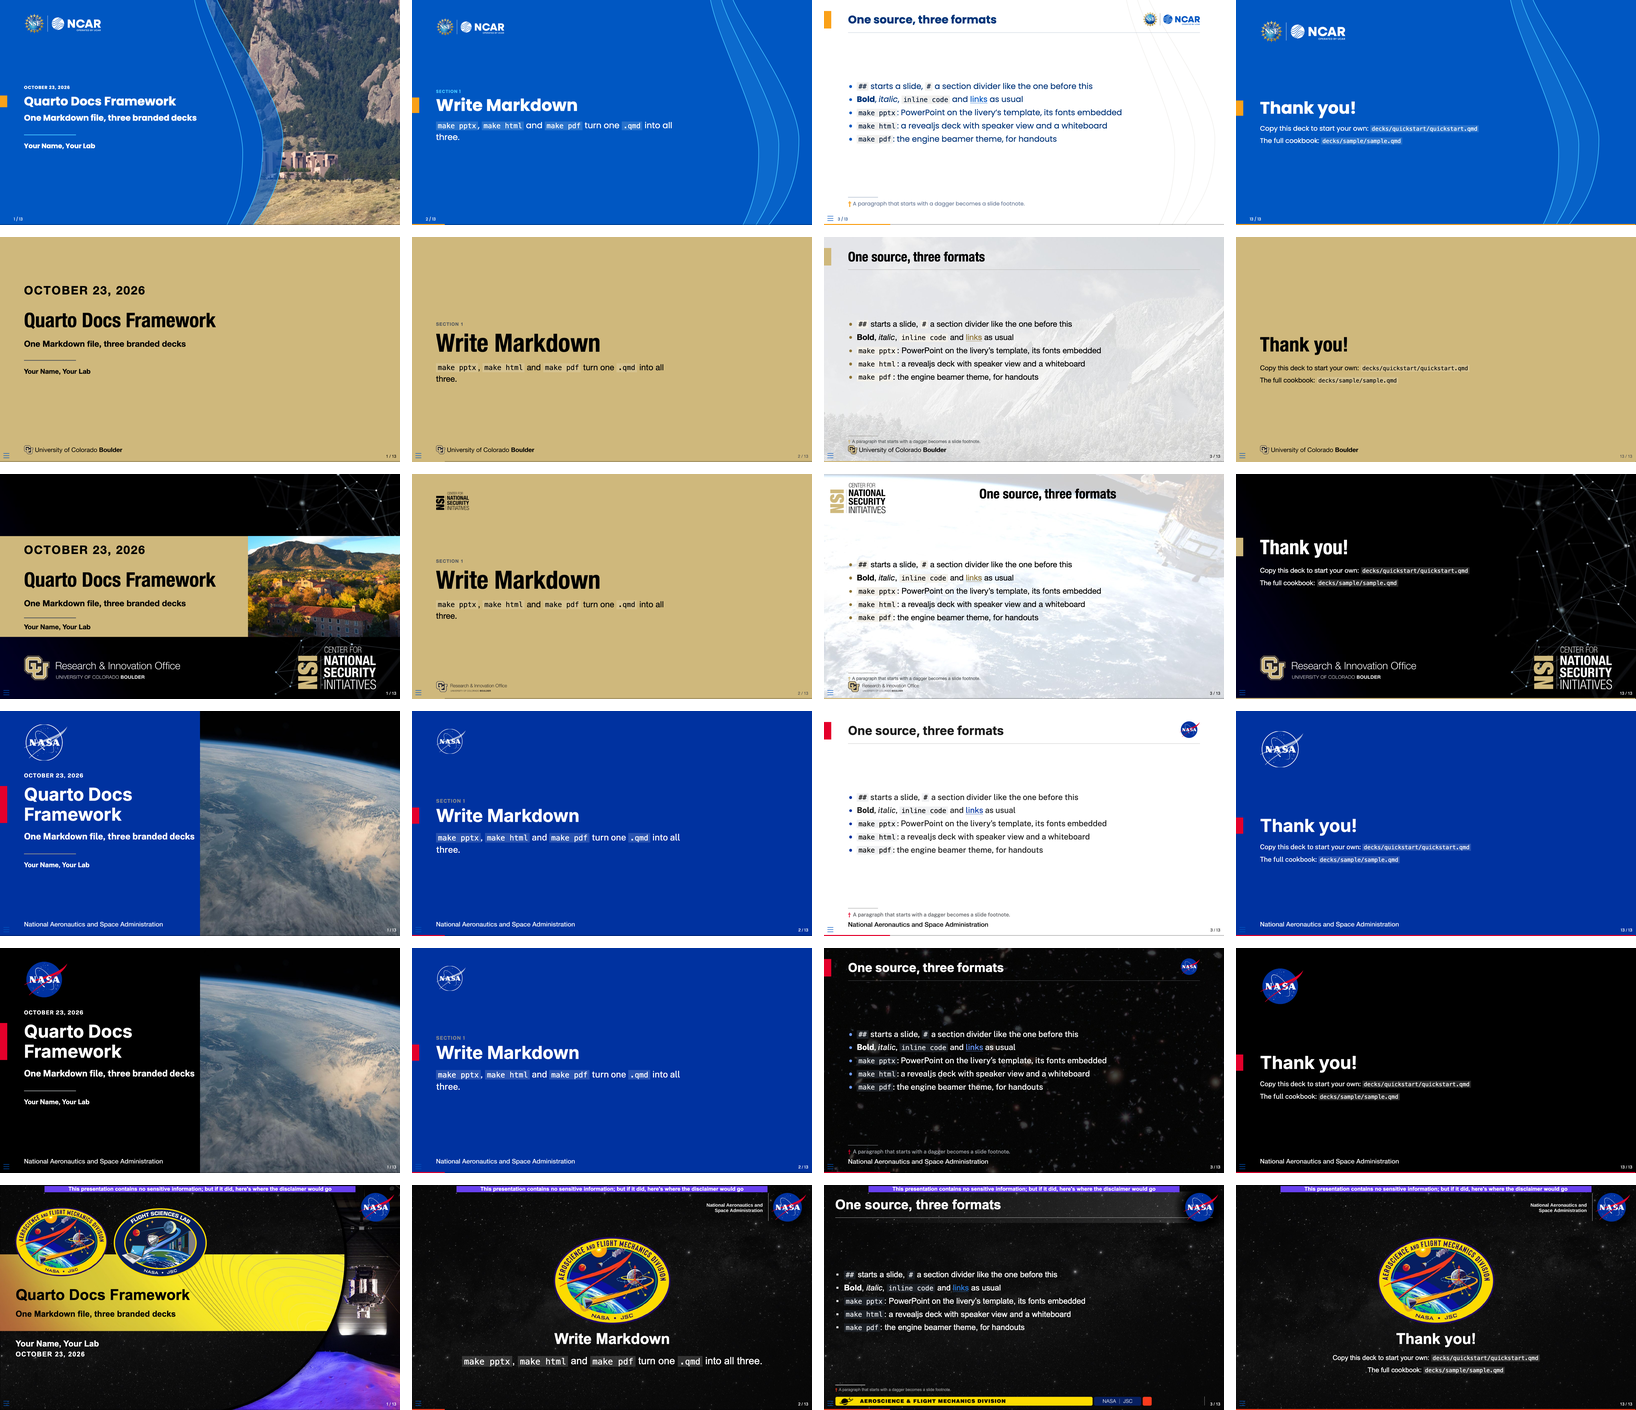
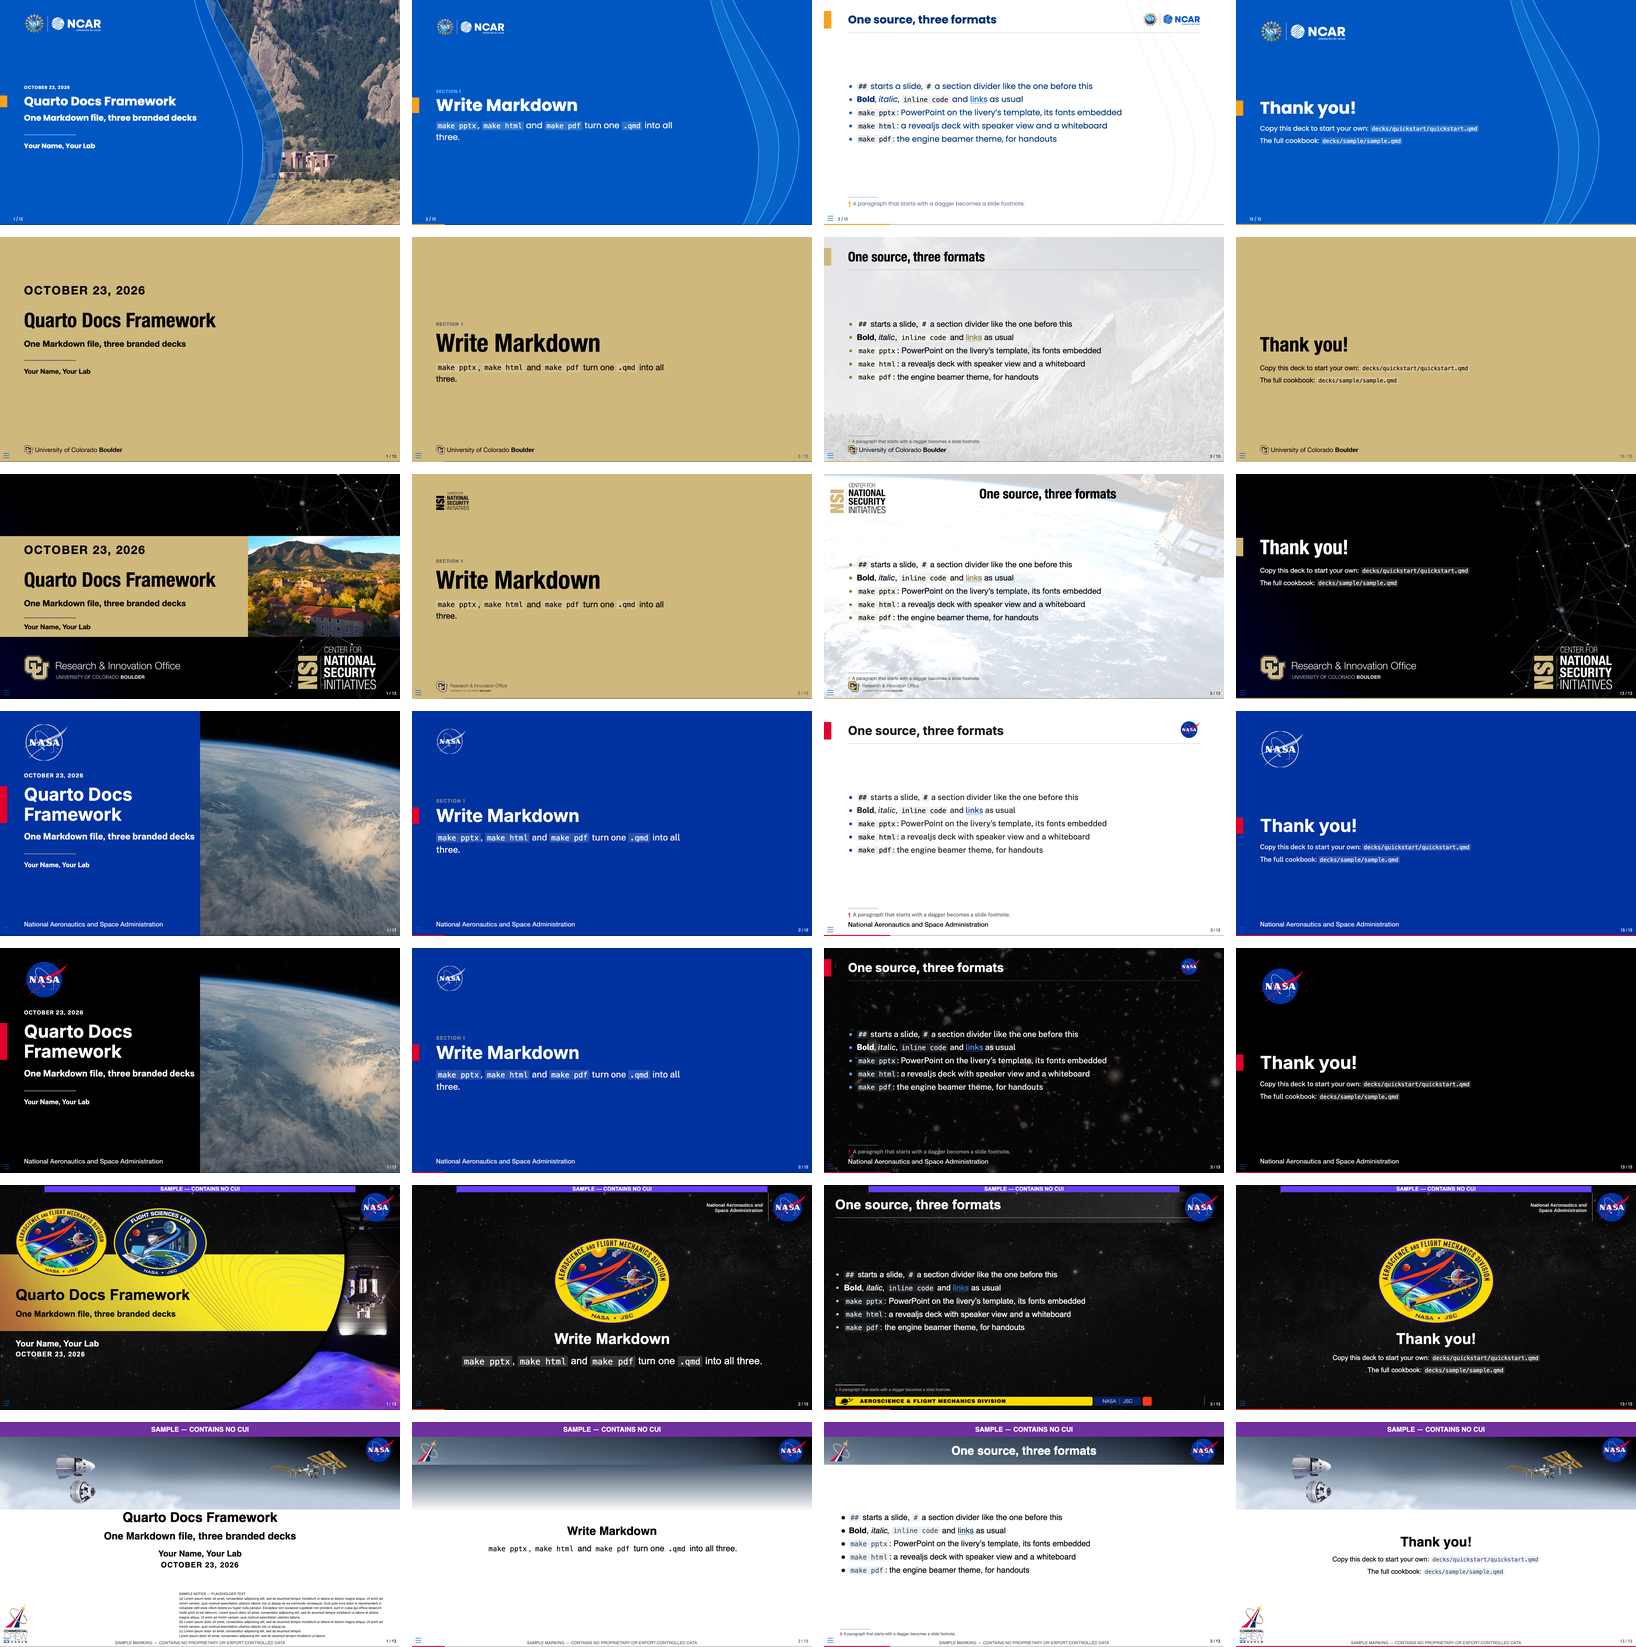
The README's livery gallery with nasa-ccp's row
`make gallery` after nasa-ccp joined its rows: the CCP cover, divider, content slide and closing.
The liveries with default markings (nasa-ccp, nasa-jsc-eg) are shot under `livery placeholders`,
so their strips read SAMPLE and nasa-ccp's cover notice is Lorem ipsum.

Claude-Session: https://claude.ai/code/session_016ELREyRJPbKMgLhTztacRH

diff --git a/README.md b/README.md
@@ -11,7 +11,7 @@ quickstart deck, write Markdown. What each release changed is in [`CHANGELOG.md`
 
 The same quickstart deck under each livery (title, divider, content, closing):
 
-![The quickstart deck under the ncar, cu, nsi, nasa, nasa-dark and nasa-jsc-eg liveries](decks/quickstart/screenshots/liveries.png)
+![The quickstart deck under the ncar, cu, nsi, nasa, nasa-dark, nasa-jsc-eg and nasa-ccp liveries](decks/quickstart/screenshots/liveries.png)
 
 Two example decks ship with the framework:
 
